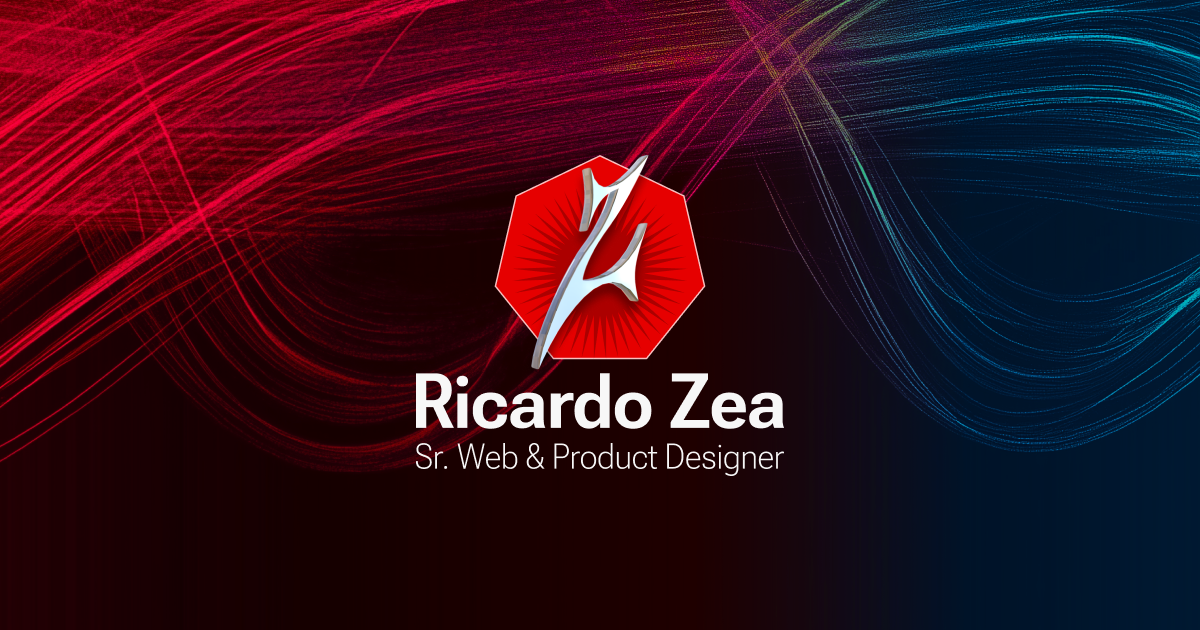
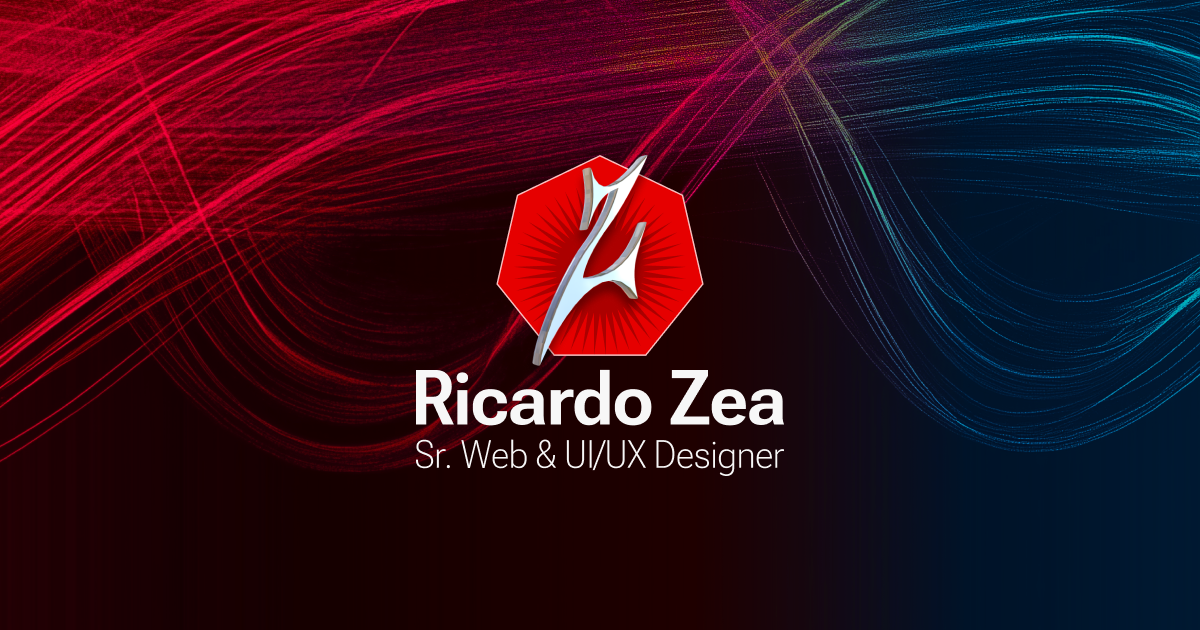
fix: updated title, added smooth scrolling feature

Changed region(s): [[0.3392, 0.573, 0.6475, 0.754], [0.4008, 0.2714, 0.5858, 0.573], [0.5242, 0.2413, 0.555, 0.2714]]

diff --git a/app/page.js b/app/page.js
@@ -55,28 +55,8 @@ import {
 } from '@phosphor-icons/react/ssr';
 
 export default function Home() {
-	const [resumeSizeMb, setResumeSizeMb] = useState(null);
 	const [aboutVisible, setAboutVisible] = useState(false);
 	const aboutRef = useRef(null);
-
-	useEffect(() => {
-		let cancelled = false;
-		fetch('/api/resume-size', { cache: 'no-store' })
-			.then((res) => (res.ok ? res.json() : null))
-			.then((data) => {
-				if (cancelled) return;
-				if (data && typeof data.mb === 'number') {
-					setResumeSizeMb(data.mb);
-				}
-			})
-			.catch(() => {
-				// ignore
-			});
-
-		return () => {
-			cancelled = true;
-		};
-	}, []);
 
 	useEffect(() => {
 		const hash = window.location.hash;
@@ -143,11 +123,11 @@ export default function Home() {
 						</div>
 
 						{/* Hero Title */}
-						<h1 className="heading-hero hero-title" aria-label="Sr. Web & Product Designer">
+						<h1 className="heading-hero hero-title" aria-label="Sr. Web & UI/UX Designer">
 							<span className="inline-block reveal reveal-slide" data-reveal-delay="0" data-reveal-stagger="0.08" data-reveal-index="0">Sr.</span>
 							<span className="hero-title-brand inline-block reveal reveal-slide" data-reveal-delay="0.1" data-reveal-stagger="0.08" data-reveal-index="1">Web</span>
 							<span className="inline-block reveal reveal-slide" data-reveal-delay="0.2" data-reveal-stagger="0.08" data-reveal-index="2">&</span>
-							<span className="hero-title-info inline-block text-nowrap reveal reveal-slide" data-reveal-delay="0.3" data-reveal-stagger="0.08" data-reveal-index="3">Product Designer</span>
+							<span className="hero-title-info inline-block text-nowrap reveal reveal-slide" data-reveal-delay="0.3" data-reveal-stagger="0.08" data-reveal-index="3">UI/UX Designer</span>
 						</h1>
 
 						{/* Hero Description */}
@@ -388,14 +368,14 @@ export default function Home() {
 								</div>
 								<h3>Leadership</h3>
 							</div>
-							<p>In my career, I’ve led multiple design teams and initiatives. I’ve managed all kinds of design projects from concept to launch both as a freelancer and inside in-house teams.</p>
-							<p>But what I enjoy most is mentoring. I didn’t have a mentor when I started, so I make it a point to pay it forward and share what I’ve learned with others.</p>
+							<p>Leadership for me isn't about titles - it's about clarity, alignment, and helping others level up. I've guided cross-functional teams, co-managed offshore designers and developers, and driven stakeholder sign-offs on complex enterprise tools.</p>
+							<p>Outside of client work, I pay it forward through 1:1 mentorship (200+ sessions across ADPList and Codementor) and vetting design talent (300+ interviews at Arc.dev).</p>
 							<ul className="skill-tag-container">
-								<li>Team Management</li>
-								<li>Project Management</li>
-								<li>Team Mentoring</li>
-								<li>Design + Development Integration</li>
 								<li>Design Strategy</li>
+								<li>Cross-Functional Collaboration</li>
+								<li>Design-to-Dev Alignment</li>
+								<li>Technical Design Vetting</li>
+								<li>Mentorship</li>
 							</ul>
 						</div>
 
@@ -867,7 +847,7 @@ export default function Home() {
 											<MouseMiddleClick size={32} weight="light" />
 										</div>
 										<div className="credential-content">
-											<h4>Sr. Web & Product Designer (freelance)</h4>
+											<h4>Sr. Web & UI/UX Designer (freelance)</h4>
 											<p>NodeSource, LLC<br />December 2020 - August 2026</p>
 										</div>
 									</div>
@@ -943,8 +923,8 @@ export default function Home() {
 							<div className="about-cta flex flex-wrap gap-4 mt-8">
 								<span className="reveal reveal-slide" data-reveal-delay="0.1">
 									<span className="glow-button-wrap">
-										<a href="/images/Resume-Ricardo-Zea.pdf" target="_blank" rel="noopener noreferrer" className="cta-button button-primary flex items-center gap-2 new-tab hide-new-tab-icon glow-button" title="PDF opens in a new tab">
-											Download Resume (PDF{resumeSizeMb === null ? '' : ` - ${resumeSizeMb} MB`})
+										<a href="https://docs.google.com/document/d/1iUZAcr00TmtALHr1gbOhZkex9PA5GtAHmhF_v8DYHGU/export?format=pdf" target="_blank" rel="noopener noreferrer" className="cta-button button-primary flex items-center gap-2 new-tab hide-new-tab-icon glow-button" title="PDF opens in a new tab">
+											Download Resume (PDF)
 											<DownloadSimple size={20} weight="regular" />
 										</a>
 									</span>
@@ -966,7 +946,7 @@ export default function Home() {
 
 							<div className="about-bio">
 								<p className="reveal reveal-slide">Hey there!</p>
-								<p className="reveal reveal-slide">I’m Ricardo. I’m a Sr. Web & Product Designer. I’ve been in the design industry for more than 20 years.</p>
+								<p className="reveal reveal-slide">I’m Ricardo. I’m a Sr. Web & UI/UX Designer. I’ve been in the design industry for more than 20 years.</p>
 								<div className="stage-container stage-card stage-card-red reveal reveal-slide">
 									<div className="stage-card-header">
 										<div className="stage-version">Stage 1 // Origins</div>

diff --git a/app/layout.js b/app/layout.js
@@ -7,6 +7,7 @@ import { SpeedInsights } from "@vercel/speed-insights/next";
 import { Analytics } from "@vercel/analytics/react";
 import BackToTop from "../components/BackToTop";
 import ProjectPageBodyClass from "../components/ProjectPageBodyClass";
+import SmoothScroll from "../components/SmoothScroll";
 
 const robotoFlex = Roboto_Flex({
 	subsets: ["latin"],
@@ -27,11 +28,11 @@ const alanSans = Alan_Sans({
 export const metadata = {
 	metadataBase: new URL('https://ricardozea.design'),
 	title: {
-		default: 'Ricardo Zea - Sr. Web & Product Designer',
+		default: 'Ricardo Zea - Sr. Web & UI/UX Designer',
 		template: '%s | Ricardo Zea',
 	},
 	description:
-		'Portfolio of Ricardo Zea, Sr. Web & Product Designer. 20+ years of experience in the industry. He will NOT design your PowerPoint template 😂.',
+		'Portfolio of Ricardo Zea, Sr. Web & UI/UX Designer. 20+ years of experience in the industry. He will NOT design your PowerPoint template 😂.',
 	keywords: [
 		'Ricardo Zea',
 		'Product Designer',
@@ -64,24 +65,24 @@ export const metadata = {
 		type: 'website',
 		url: '/',
 		siteName: 'Ricardo Zea',
-		title: 'Ricardo Zea - Sr. Web & Product Designer',
+		title: 'Ricardo Zea - Sr. Web & UI/UX Designer',
 		description:
-			'Portfolio of Ricardo Zea, Sr. Web & Product Designer. 20+ years of experience in the industry. He will NOT design your PowerPoint template 😂.',
+			'Portfolio of Ricardo Zea, Sr. Web & UI/UX Designer. 20+ years of experience in the industry. He will NOT design your PowerPoint template 😂.',
 		images: [
 			{
 				url: '/og.png',
 				width: 1200,
 				height: 630,
-				alt: 'Ricardo Zea - Sr. Web & Product Designer',
+				alt: 'Ricardo Zea - Sr. Web & UI/UX Designer',
 				type: 'image/png',
 			},
 		],
 	},
 	twitter: {
 		card: 'summary_large_image',
-		title: 'Ricardo Zea - Sr. Web & Product Designer',
+		title: 'Ricardo Zea - Sr. Web & UI/UX Designer',
 		description:
-			'Portfolio of Ricardo Zea, Sr. Web & Product Designer. 20+ years of experience in the industry. He will NOT design your PowerPoint template 😂.',
+			'Portfolio of Ricardo Zea, Sr. Web & UI/UX Designer. 20+ years of experience in the industry. He will NOT design your PowerPoint template 😂.',
 		images: ['/og.png'],
 	},
 };
@@ -139,6 +140,7 @@ export default function RootLayout({ children }) {
 					suppressHydrationWarning
 				>
 					<ProjectPageBodyClass />
+					<SmoothScroll />
 					<a
 						href="#start-content"
 						className="skip-to-content"

diff --git a/app/projects/nodesource/page.js b/app/projects/nodesource/page.js
@@ -49,7 +49,7 @@ export default function ProjectDetail() {
 									In addition, when I inherited this project I was provided with files made in… Sketch 😒. I'm glad that's not a thing anymore, haha. So I imported a 💩-ton of files into Figma and today I have taken NodeSource's flagship product, N|Solid Console, their website, and other products to a whole new level 😁👍🏽.
 								</p>
 								<p className="info-text reveal reveal-slide">
-									<Info size={24} weight="regular" />Quick note: I've been freelancing for NodeSource since 2020. What you'll see here is from 2024 until now.
+									<Info size={24} weight="regular" />Quick note: I've been freelancing for NodeSource since 2020. What you'll see here is from 2024 until 2026.
 								</p>
 							</div>
 
@@ -67,7 +67,7 @@ export default function ProjectDetail() {
 									<CalendarStar size={24} weight="regular" className="icon-accent-blue-subtle shrink-0" />
 									<div>
 										<span className="meta-label mr-1">Year:</span>
-										<span className="meta-value">2024 - Current</span>
+										<span className="meta-value">2024 - 2026</span>
 									</div>
 								</div>
 								<div className="meta-item reveal reveal-slide" data-reveal-delay="0.3">

diff --git a/proxy.ts b/proxy.ts
@@ -18,6 +18,11 @@ const ALWAYS_ALLOW_PREFIXES = [
   "/manifest.json",
 ];
 
+// Exact paths (non-project pages) that should be accessible directly.
+const ALWAYS_ALLOW_PATHS = new Set([
+  "/flag-demo",
+]);
+
 function normalize(pathname: string) {
   if (pathname === "/") return "/";
   return pathname.endsWith("/") ? pathname.slice(0, -1).toLowerCase() : pathname.toLowerCase();
@@ -34,6 +39,10 @@ export function proxy(request: NextRequest) {
 
   // Allow root.
   if (normalized === "/") {
+    return NextResponse.next();
+  }
+
+  if (ALWAYS_ALLOW_PATHS.has(normalized)) {
     return NextResponse.next();
   }
 

diff --git a/components/SmoothScroll.js b/components/SmoothScroll.js
@@ -1,0 +1,28 @@
+'use client';
+
+import { useEffect } from 'react';
+import Lenis from 'lenis';
+
+export default function SmoothScroll() {
+	useEffect(() => {
+		const lenis = new Lenis({
+			duration: 0.9,
+			easing: (t) => Math.min(1, 1.001 - Math.pow(2, -10 * t)),
+			orientation: 'vertical',
+			smoothWheel: true,
+		});
+
+		function raf(time) {
+			lenis.raf(time);
+			requestAnimationFrame(raf);
+		}
+
+		requestAnimationFrame(raf);
+
+		return () => {
+			lenis.destroy();
+		};
+	}, []);
+
+	return null;
+}

diff --git a/public/css/styles-ricardozea-v6.css b/public/css/styles-ricardozea-v6.css
@@ -1649,6 +1649,10 @@ p.text-description:first-of-type {
 	-webkit-box-reflect: var(--reflection);
 }
 
+.hero-title span {
+	letter-spacing: .001em;
+}
+
 .hero-title-brand {
 	color: var(--text-accent-red-persistent);
 	font-weight: 600;
